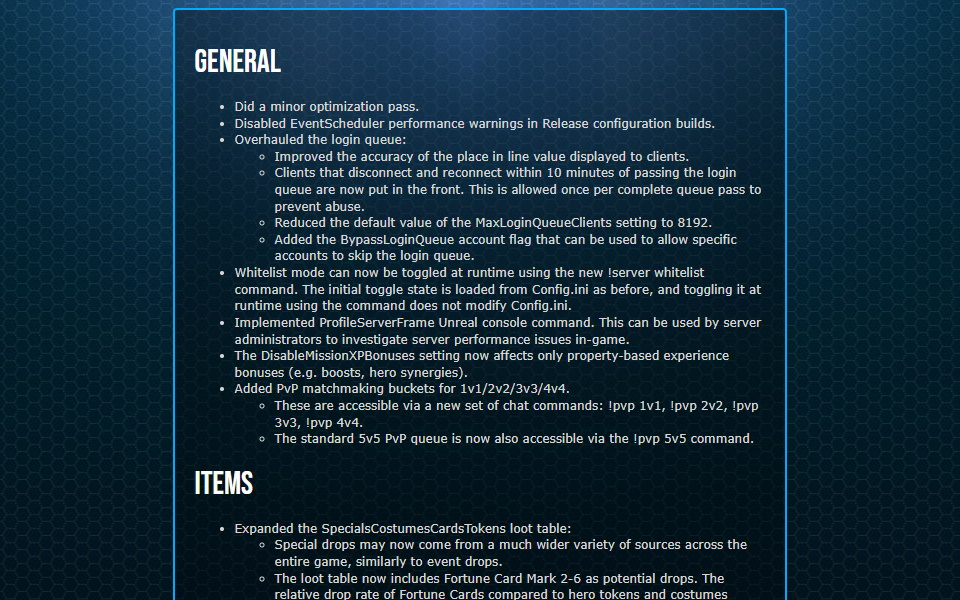
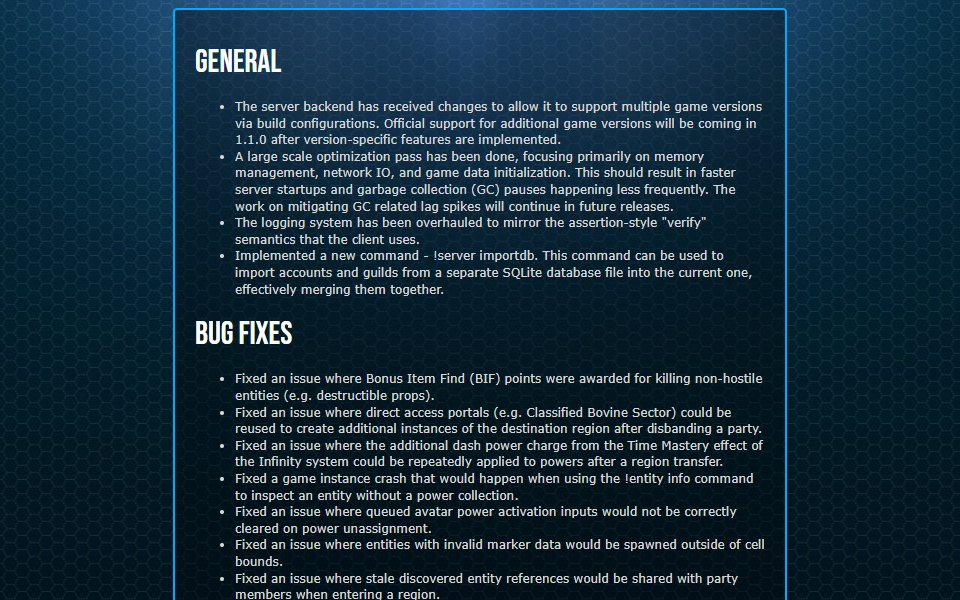
Update web assets for version 1.0.2

Changed region(s): [[0.1875, 0.15, 0.8125, 1.0], [0.1875, 0.06, 0.3125, 0.12]]

diff --git a/news/patch-notes.html b/news/patch-notes.html
@@ -3,155 +3,40 @@
 <head>
     <meta charset="UTF-8">
     <meta name="viewport" content="width=device-width, initial-scale=1.0">
-    <title>MHServerEmu 1.0.1 Patch Notes</title>
+    <title>MHServerEmu 1.0.2 Patch Notes</title>
     <link rel="stylesheet" href="css/popup.css">
 </head>
 <body>
 <div class="content-container">
-<h1>MHServerEmu 1.0.1 Patch Notes</h1>
+<h1>MHServerEmu 1.0.2 Patch Notes</h1>
 
 <h2>General</h2>
 <ul>
-	<li>Did a minor optimization pass.</li>
-	<li>Disabled EventScheduler performance warnings in Release configuration builds.</li>
-	<li>Overhauled the login queue:</li>
-	<ul>
-		<li>Improved the accuracy of the place in line value displayed to clients.</li>
-		<li>Clients that disconnect and reconnect within 10 minutes of passing the login queue are now put in the front. This is allowed once per complete queue pass to prevent abuse.</li>
-		<li>Reduced the default value of the MaxLoginQueueClients setting to 8192.</li>
-		<li>Added the BypassLoginQueue account flag that can be used to allow specific accounts to skip the login queue.</li>
-	</ul>
-	<li>Whitelist mode can now be toggled at runtime using the new !server whitelist command. The initial toggle state is loaded from Config.ini as before, and toggling it at runtime using the command does not modify Config.ini.</li>
-	<li>Implemented ProfileServerFrame Unreal console command. This can be used by server administrators to investigate server performance issues in-game.</li>
-	<li>The DisableMissionXPBonuses setting now affects only property-based experience bonuses (e.g. boosts, hero synergies).</li>
-	<li>Added PvP matchmaking buckets for 1v1/2v2/3v3/4v4.</li>
-	<ul>
-		<li>These are accessible via a new set of chat commands: !pvp 1v1, !pvp 2v2, !pvp 3v3, !pvp 4v4.</li>
-		<li>The standard 5v5 PvP queue is now also accessible via the !pvp 5v5 command.</li>
-	</ul>
+	<li>The server backend has received changes to allow it to support multiple game versions via build configurations. Official support for additional game versions will be coming in 1.1.0 after version-specific features are implemented.</li>
+	<li>A large scale optimization pass has been done, focusing primarily on memory management, network IO, and game data initialization. This should result in faster server startups and garbage collection (GC) pauses happening less frequently. The work on mitigating GC related lag spikes will continue in future releases.</li>
+	<li>The logging system has been overhauled to mirror the assertion-style "verify" semantics that the client uses.</li>
+	<li>Implemented a new command - !server importdb. This command can be used to import accounts and guilds from a separate SQLite database file into the current one, effectively merging them together.</li>
 </ul>
 
-<h2>Items</h2>
-<ul>
-	<li>Expanded the SpecialsCostumesCardsTokens loot table:</li>
-	<ul>
-		<li>Special drops may now come from a much wider variety of sources across the entire game, similarly to event drops.</li>
-		<li>The loot table now includes Fortune Card Mark 2-6 as potential drops. The relative drop rate of Fortune Cards compared to hero tokens and costumes remains unchanged.</li>
-	</ul>
-	<li>All variants of The Omega Drive artifact can now drop during the Operation Omega event.</li>
-	<li>Implemented event-specific daily login gifts.</li>
-	<li>Implemented custom loot cooldown channel mappings to fix issues with legacy event drops. Custom mappings are loaded from Data/Game/LootCooldownChannels.json.</li>
-	<li>Added a short cooldown to stacking boosts to mitigate issues caused by spam interacting with them.</li>
-	<li>Legacy boost exchange vendors are now hidden in the default server configuration.</li>
-</ul>
-
-<h2>Live Tuning</h2>
-<ul>
-	<li>When Live Tuning is loaded, the server will now apply event-specific settings for each calendar date based on a pre-defined schedule. This can be toggled using the new EnableLiveTuningEvents setting.</li>
-	<li>The server will now also automatically reload Live Tuning data when the daily mission reset happens (10:00 UTC+0) to refresh event settings. This can be toggled using the new AutoRefreshLiveTuning setting.</li>
-	<li>A list of active events is printed in chat in a secondary message of the day when you log in and when the Live Tuning data is reloaded.</li>
-	<li>Live Tuning events are defined in the Events.json and EventSchedule.json files located in Data\Game\LiveTuning. You can define custom events by creating files named EventsOverride.json and EventScheduleOverride.json in the same folder. Overrides completely replace the default data when they are loaded, so be sure to copy default events to your overrides if you want to keep them.</li>
-	<li>The following events are active in the default schedule:</li>
-	<ul>
-		<li>Primary Weekly Rotation</li>
-		<ul>
-			<li>Cosmic Chaos</li>
-			<li>Odin's Bounty</li>
-			<li>Operation Omega</li>
-			<li>Mystic Mayhem</li>
-			<li>A.R.M.O.R. Incursion</li>
-		</ul>
-		<li>Secondary Weekly Rotation</li>
-		<ul>
-			<li>Heroes for Hire</li>
-			<li>The Wealth of Kings County</li>
-			<li>Daredevil / Defenders</li>
-		</ul>
-		<li>Day of Week Specific</li>
-		<ul>
-			<li>Midtown Madness (Monday)</li>
-		</ul>
-		<li>Special Dates</li>
-		<ul>
-			<li>Australia Day (January 25-26)</li>
-			<li>Lunar New Year (one week beginning on the first day of the Chinese lunisolar calendar)</li>
-			<li>Valentine's Day (February 13-19)</li>
-			<li>St. Patrick's Day (March 16-22)</li>
-			<li>April Fools' Day (April 1)</li>
-			<li>Marvel Heroes Anniversary (June)</li>
-			<li>End of Summer (August 25-31)</li>
-			<li>Halloween (October 26 – November 1)</li>
-			<li>Winter Holiday (December 20 – January 2)</li>
-		</ul>
-	</ul>
-	<li>The following content that was previously always available is now event-specific:</li>
-	<ul>
-		<li>Cosmic Chaos</li>
-		<ul>
-			<li>Moondragon vendor NPC in Avengers Tower</li>
-		</ul>
-		<li>Odin's Bounty</li>
-		<ul>
-			<li>Odin's Bounty chest drops in S.H.I.E.L.D. Holo-Sim</li>
-		</ul>
-		<li>Operation Omega</li>
-		<ul>
-			<li>S.H.I.E.L.D. Omega Access Files reward for completing Shared Quests</li>
-			<li>S.H.I.E.L.D. Holo-Sim daily missions</li>
-			<li>S.H.I.E.L.D. vs HYDRA mission</li>
-			<li>Rose Solomon and Baron Von Lind buffer NPCs in Avengers Tower</li>
-			<li>Agent Dum Dum Dugan vendor NPC in Avengers Tower</li>
-		</ul>
-		<li>Mystic Mayhem</li>
-		<ul>
-			<li>Infernal Limbo game mode</li>
-			<li>Strike on Limbo mission</li>
-			<li>Legendary Mystic Scroll drops</li>
-		</ul>
-		<li>A.R.M.O.R. Incursion</li>
-		<ul>
-			<li>A.R.M.O.R. Research Drives reward for completing Shared Quests</li>
-			<li>A.R.M.O.R. Defender mission</li>
-			<li>Jocasta vendor NPC in Avengers Tower</li>
-		</ul>
-		<li>Daredevil / Defenders</li>
-		<ul>
-			<li>Orders from the Hand drops and their exchange using the event terminal</li>
-		</ul>
-		<li>The Wealth of Kings County</li>
-		<ul>
-			<li>Bundles of Cash drops</li>
-			<li>Industry City Patrol daily missions</li>
-		</ul>
-		<li>Anniversary</li>
-		<ul>
-			<li>Bozhe Moi! mission</li>
-		</ul>
-	</ul>
-	<li>Implemented Live Tuning variables:</li>
-	<ul>
-		<li>eWETV_Visible</li>
-		<li>eMTV_EventInstance</li>
-	</ul>
-	<li>Vendor loot tables can now be hot swapped using Live Tuning. To do this, add VendorInventoryEntryPrototype instances to a VendorTypePrototype with data patches, and then toggle loot tables via Live Tuning.</li>
-</ul>
-
-<h2>Web API</h2>
-<ul>
-	<li>Adjusted game performance metrics to match in-game data:</li>
-	<ul>
-		<li>UpdateTime renamed to ProcessingTime.</li>
-		<li>FrameTime now outputs the time interval between simulation updates, which should be around 50 ms under normal circumstances.</li>
-	</ul>
-</ul>
 
 <h2>Bug Fixes</h2>
 <ul>
-	<li>Fixed a game instance crash that could happen when Omega / Infinity bonuses were applied to players in different game instances at the same time.</li>
-	<li>Fixed an issue where difficulty tier restrictions were not applied to spawned mobs and summoned entities in some cases (e.g. StarkTech Sentinels in the Axis raid).</li>
-	<li>Fixed an issue where the !item give command could not create some store-only costumes.</li>
-	<li>Re-enabled primary resource migration for heroes other than Human-Torch and Scarlet Witch.</li>
-	<li>Disabled secondary resource migration for Ant-Man and Blade.</li>
+	<li>Fixed an issue where Bonus Item Find (BIF) points were awarded for killing non-hostile entities (e.g. destructible props).</li>
+	<li>Fixed an issue where direct access portals (e.g. Classified Bovine Sector) could be reused to create additional instances of the destination region after disbanding a party.</li>
+	<li>Fixed an issue where the additional dash power charge from the Time Mastery effect of the Infinity system could be repeatedly applied to powers after a region transfer.</li>
+	<li>Fixed a game instance crash that would happen when using the !entity info command to inspect an entity without a power collection.</li>
+	<li>Fixed an issue where queued avatar power activation inputs would not be correctly cleared on power unassignment.</li>
+	<li>Fixed an issue where entities with invalid marker data would be spawned outside of cell bounds.</li>
+	<li>Fixed an issue where stale discovered entity references would be shared with party members when entering a region.</li>
+	<li>Fixed an issue where entities would not become resistant to crowd control status effects after being crowd controlled in some cases.</li>
+	<li>Fixed an issue with missile power targeting logic, which resulted in irregular behavior for some missile powers (e.g. Black Widow’s Rolling Grenades).</li>
+	<li>Fixed a rare full server crash that could occur when a client disconnected during the authentication process.</li>
+	<li>Fixed an issue where non-avatar live tuned vendor Eternity Splinter prices were not respected client-side.</li>
+	<li>Fixed an issue where enum fields with invalid asset references were interpreted as the default value rather than zero when parsing Calligraphy prototypes, resulting in incorrect behavior in some cases (e.g. wander AI state for Sauron and Vulture).</li>
+	<li>Fixed an issue where a tutorial popup was not displayed when a player equpped a Cosmic rarity item for the first time.</li>
+	<li>Fixed an issue where Scarlet Witch's Balance talent could trigger from hitting the boxes it summons.</li>
+	<li>Fixed an issue where restored Fantastic Four related achievements were not granting achievement points.</li>
+	<li>Fixed more typos and incorrect translations in the Russian achievement text.</li>
 </ul>
 
 <a href="#" onclick="myApi.CloseNewsUrl()">

diff --git a/news/index.html b/news/index.html
@@ -3,7 +3,7 @@
 <head>
     <meta charset="UTF-8">
     <meta name="viewport" content="width=device-width, initial-scale=1.0">
-    <title>MHServerEmu 1.0.1</title>
+    <title>MHServerEmu 1.0.2</title>
     <link rel="stylesheet" href="css/main.css">
 </head>
 <body>
@@ -13,7 +13,7 @@
         <a href="#" onclick="myApi.OpenNewsUrl('http://localhost/news/patch-notes.html')">
             <div class="big-slide slide" style="background-image: url('images/big-slide-1.jpg')">
                 <div class="slide-text-container">
-                    <span>MHServerEmu 1.0.1 Patch Notes</span>
+                    <span>MHServerEmu 1.0.2 Patch Notes</span>
                 </div>
             </div>
         </a>
